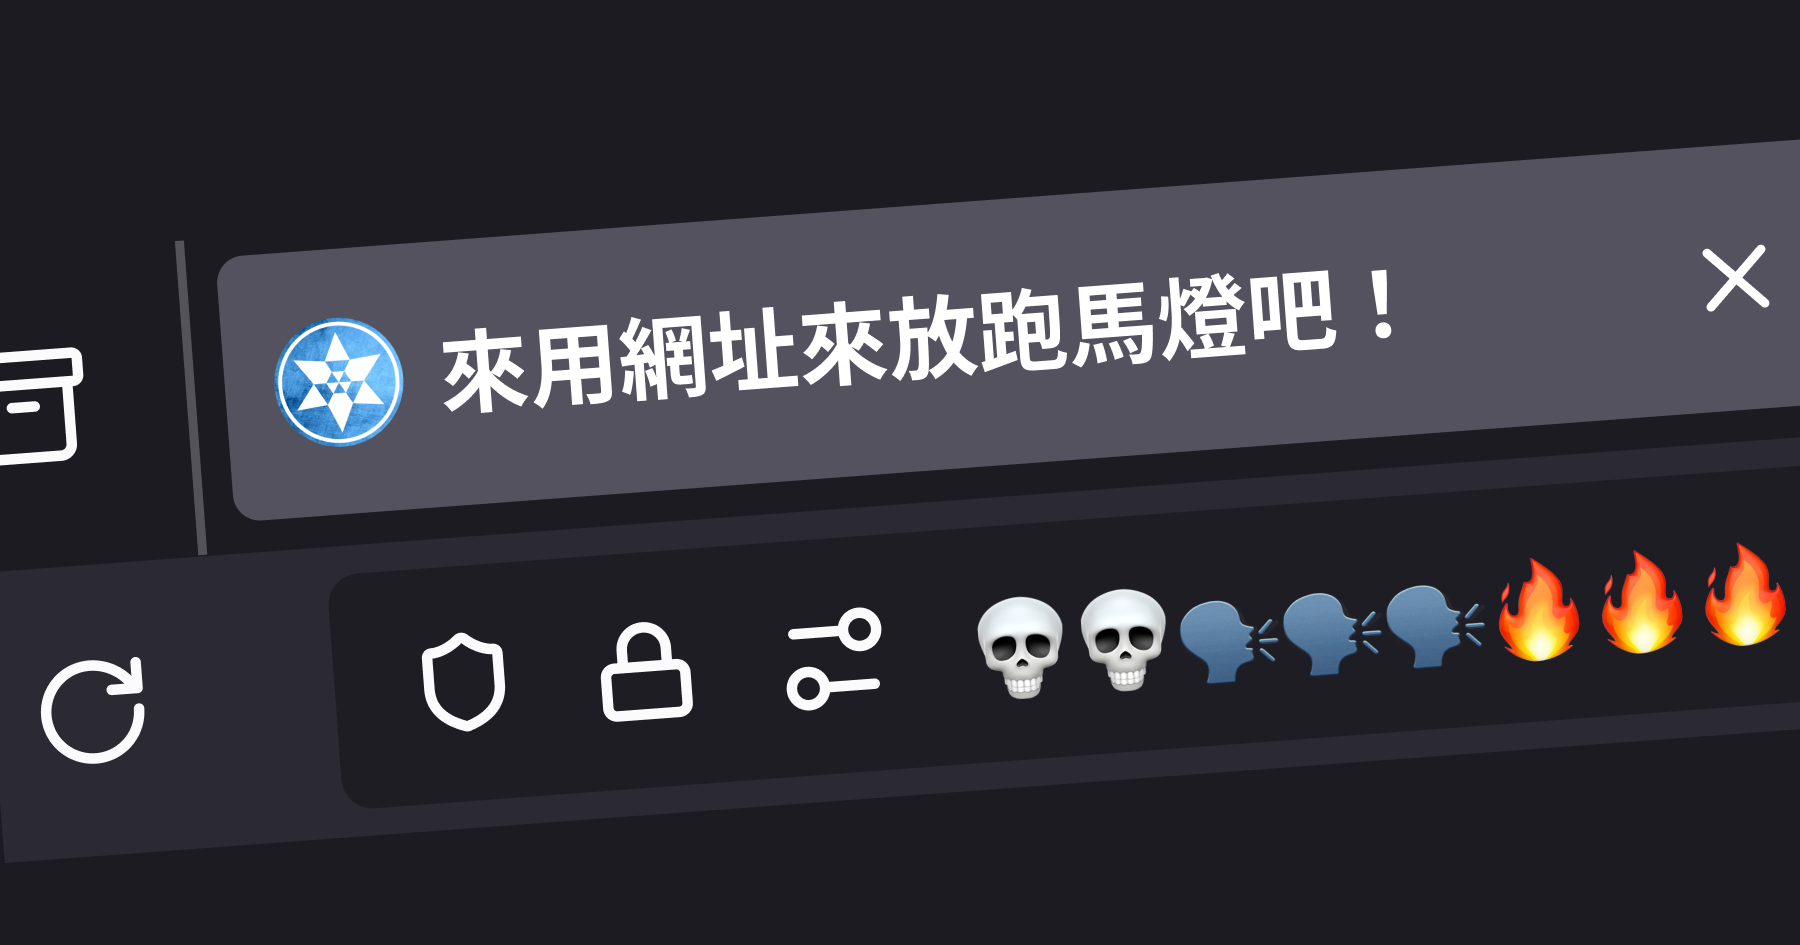
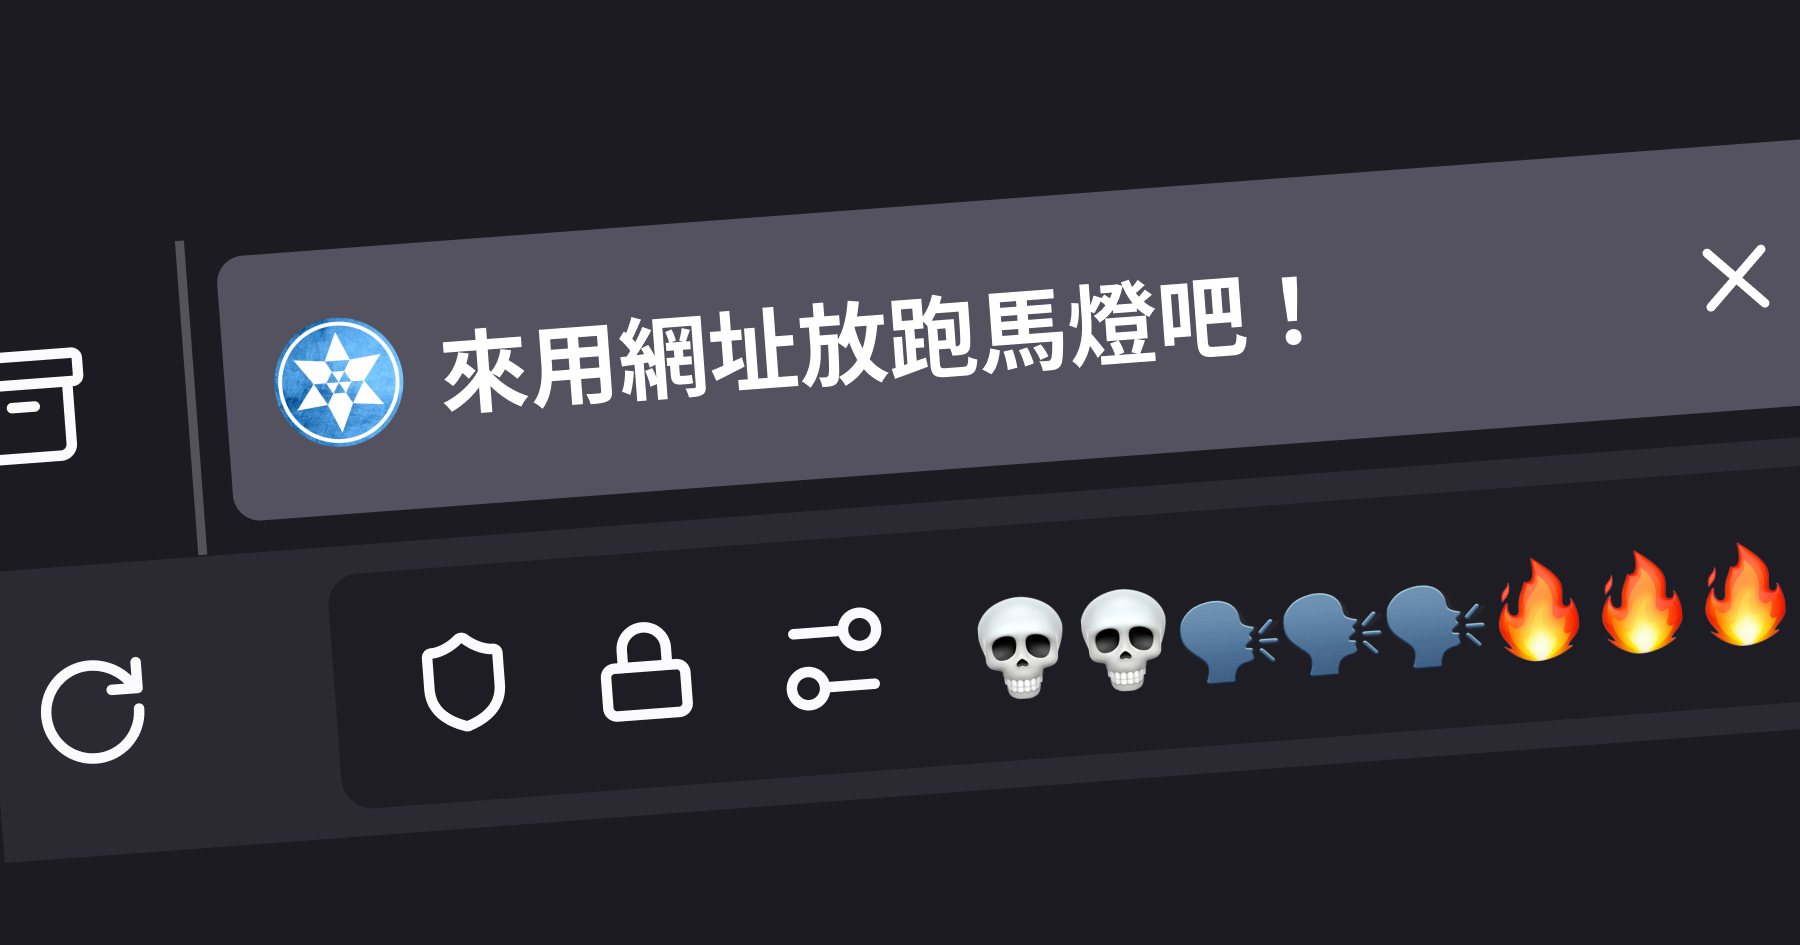
fix: title double 來

Changed region(s): [[0.4356, 0.2762, 0.7778, 0.4296]]

diff --git a/post/url-marquee/index.md b/post/url-marquee/index.md
@@ -6,7 +6,7 @@ date: 2025-09-19
 description: 等客運時突然想到的，想說來實作看看。果然跟我想的一樣不知道幹嘛。
 ---
 
-# 來用網址來放跑馬燈吧！
+# 來用網址放跑馬燈吧！
 
 最近常常在寫 SPA 網頁（Single Page Application），意思是說整個網頁從頭到尾沒有重新載入過，所有的內容都是用 JavaScript 動態載入的。更新網頁的內容很好理解，只需要改變 `innerHTML` 或是 `textContent` 就可以了，但是如果要改變網址列的網址呢？這時候就要用到 [History API](https://developer.mozilla.org/en-US/docs/Web/API/History_API) 了。
 
